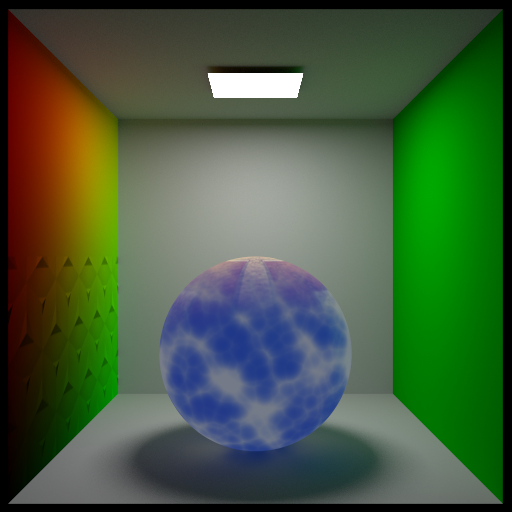
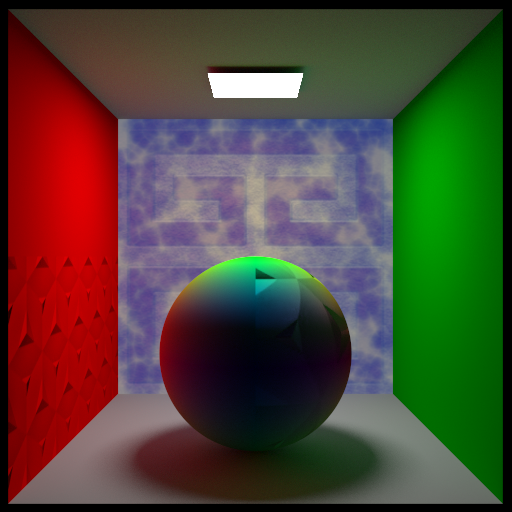
edit

diff --git a/main/tests8.cpp b/main/tests8.cpp
@@ -65,8 +65,8 @@ bool test90_proc_tex_normalmap()
     xml_node texNode = hrTextureParamNode(texProc);
     
     xml_node code_node = texNode.append_child(L"code");
-    code_node.append_attribute(L"file") = L"data/code/mul_tex_coord2.c";
-    code_node.append_attribute(L"main") = L"userProc";
+    code_node.append_attribute(L"file") = L"data/code/show_normals.c";
+    code_node.append_attribute(L"main") = L"mainNorm";
   }
   hrTextureNodeClose(texProc);
   
@@ -185,7 +185,7 @@ bool test90_proc_tex_normalmap()
     colorNode.append_attribute(L"val") = L"0.5 0.0 0.0";
     colorNode.append_attribute(L"tex_apply_mode") = L"replace";
 
-    /*
+
     // bind proc texture to diffuse slot
     {
       auto texNode = hrTextureBind(texProc, colorNode);
@@ -214,7 +214,7 @@ bool test90_proc_tex_normalmap()
       p1.append_attribute(L"size") = 1;
       p1.append_attribute(L"val") = L"1 1 1 1";
     }
-    */
+
 
     auto displacement = matNode.append_child(L"displacement");
     displacement.append_attribute(L"type").set_value(L"normal_bump");

diff --git a/main/main.cpp b/main/main.cpp
@@ -129,7 +129,7 @@ int main(int argc, const char** argv)
     //run_all_api_tests(82);
 	  //run_all_geo_tests();
     //run_all_lgt_tests();
-    //run_all_mtl_tests();
+    //run_all_mtl_tests(9);
     //run_all_ipp_tests();
 
     //std::cout << test41_load_library_basic() << std::endl;
